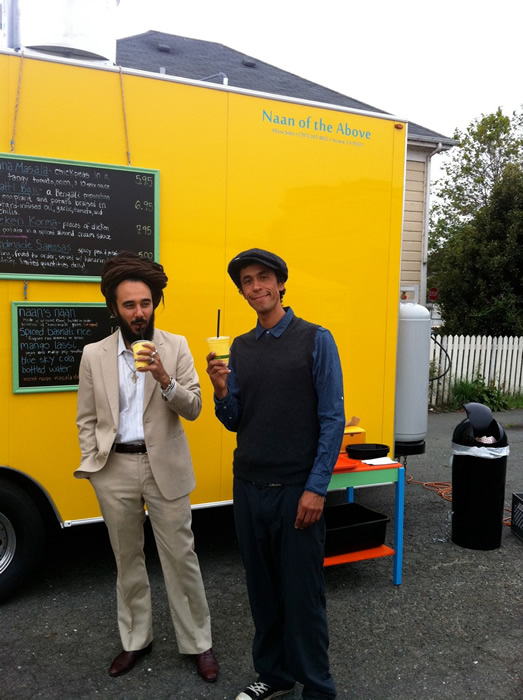
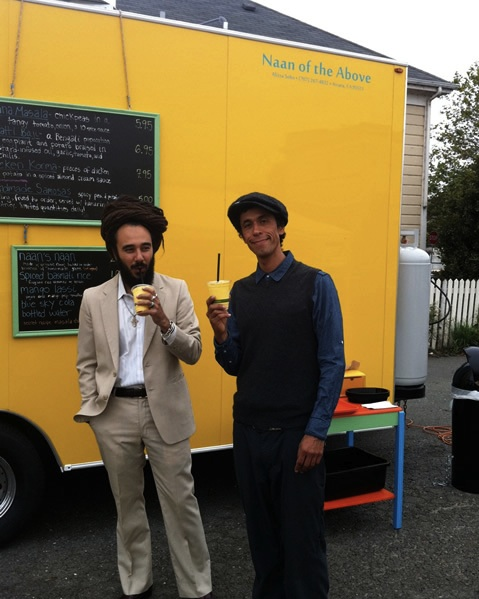
resized images, tweaked styles

diff --git a/index.html b/index.html
@@ -18,6 +18,7 @@
     <img id="logo" src="images/logo.png" alt="Naan of the Above"/>
     <div id="slideShow" class="photo" style="display: none;"></div>
     <div id="noSlideShow" class="photo"></div>
+    <div class="clear"></div>
   </div>
 
   <div id="navigation">
@@ -25,15 +26,21 @@
     <a id="menuLink" href="#menu">Weekly Menu</a>
     <a id="locationAndHoursLink" href="#locationAndHours">Location & Hours</a>
     <a id="contactLink" href="#contact">Contact</a>
-    <a id="aboutLink" href="#about">About</a>
-    <a id="merchandiseLink" href="#merchandise">Merchandise</a>
+    <!--<a id="aboutLink" href="#about">About</a>-->
+    <!--<a id="merchandiseLink" href="#merchandise">Merchandise</a>-->
   </div>
 
   <div id="main">
 
     <div id="news" class="section">
-      Facebook Fan appreciation day! <br/>
-      Saturday, March 26th
+
+      <div class="subsection">
+        Facebook Fan appreciation day is Saturday, March 26th. If you have "liked" us on facebook before friday night at 9pm, you will receive a free naan with any curry purchase!
+        Here is an example: 2 fans come to <i>naan of the above</i> on Saturday, March 26th and buy two curries. They receive two free naan!
+        3 fans come to <i>naan of the above</i> on appreciation day and buy one curry between them. They receive one free naan.
+
+      </div>
+
     </div>
 
     <div id="menu" class="section">
@@ -89,15 +96,17 @@
         </dl>
       </div>
 
+
       <div class="clear"></div>
+      Phone-in orders of $20 or more are gladly accepted!
     </div>
 
     <div id="locationAndHours" class="section">
       <div id="hours" class="subsection">
         <h2>Hours</h2>
-        <table>
+        <table id="hoursTable">
           <tr>
-            <td> Wed &mdash; Fri </td>
+            <td> Wednesday &mdash; Friday </td>
             <td> 11:30 am &mdash; 8 pm </td>
           </tr>
           <tr>
@@ -105,7 +114,7 @@
             <td> 11:30 am &mdash; 6 pm </td>
           </tr>
           <tr>
-            <td> Sun &mdash; Tues </td>
+            <td> Sunday &mdash; Tuesday </td>
             <td> Closed </td>
           </tr>
         </table>

diff --git a/stylesheets/naan.css b/stylesheets/naan.css
@@ -1,8 +1,11 @@
+/* global */
 html {
   font-family: Helvetica, Arial, sans-serif;
   line-height: 140%;
   background-color: goldenrod;
   margin: 0;
+  overflow-y: scroll;
+  font-weight: lighter;
 }
 h1 {
   font-weight: bold;
@@ -19,37 +22,38 @@ h2, th {
   width: 100%;
   clear: both;
 }
-
-
 #content {
   width: 960px;
   min-height: 600px;
   margin: 15px auto;
   background: white;
 }
-#header {
-  height: 250px;
-}
+
+
+/* header */
 #logo {
   margin: 20px;
   margin-bottom: 0;
 }
 .photo {
-  width: 460px;
-  height: 100%;
+  width: 450px;
+  height: 250px;
   float: right;
   background: gray;
+  border: 5px solid white;
+  /* border-bottom: none; */
 }
 #noSlideShow {
   background-image: url("../images/slides/tents.jpg");
   background-repeat: no-repeat;
   background-position: -100px -150px;
 }
-
-
 #main {
   padding: 10px;
 }
+
+
+/* navigation bar */
 #navigation {
   height: 26px;
   padding: 10px;
@@ -60,7 +64,10 @@ h2, th {
   font-size: 22px;
   padding: 0 15px;
   text-decoration: none;
+
+  margin-right: 15px; /* take this out to make room for more links */
 }
+
 #navigation a:hover {
   text-decoration: underline;
 }
@@ -78,31 +85,40 @@ h2, th {
   padding: 10px;
   margin: 10px;
   background: #BAF5E3;
-}
-
-#menu .subsection {
-  width: 273px;
-}
-
-.subsection {
   min-height: 150px;
+  width: 900px;
 }
 
-#locationAndHours .subsection,
+
+/* sections */
+#news .subsection {
+  width: 900px;
+}
+
 #contact .subsection
 {
   width: 430px;
 }
 
+#locationAndHours .subsection {
+  width: 430px;
+}
+#hoursTable {
+  font-weight: lighter;
+  width: 100%;
+}
+
+#menu .subsection {
+  width: 273px;
+}
 #menu dt {
   font-weight: bold;
 }
 #menu dd {
-  font-style: italic;
+  font-weight: lighter;
   font-size: 16px;
   margin-bottom: 10px;
 }
 .price {
-  font-style: italic;
   float: right;
 }

diff --git a/script/slideshow.js b/script/slideshow.js
@@ -22,17 +22,11 @@ $(function() {
 
   // If you want to have a different ken burns effect for a particular slide,
   // add an entry to this list. put the file name in the square brackets.
-//  kenBurnsEffects['big_naan.jpg'] = {
-//    from: '20% 20%',
-//    to: '80% 100%',
-//    time: 6
-//  };
-//  kenBurnsEffects['night_tents.jpg'] = {
-//    from: '20% 20%',
-//    to: '80% 100%',
-//    time: 6
-//  };
-
+  kenBurnsEffects['tents.jpg'] = {
+    from: '0% 20%',
+    to: '100% 100%',
+    time: 6
+  };
 
   var slides = [], effect;
   for (var i = 0, n = slideNames.length; i < n; i++) {

diff --git a/script/navigation.js b/script/navigation.js
@@ -17,6 +17,7 @@ $(function() {
   $(window).bind('hashchange', function(event) {
     event.preventDefault();
     showCurrentSection();
+    return false;
   });
   showCurrentSection();
 });
